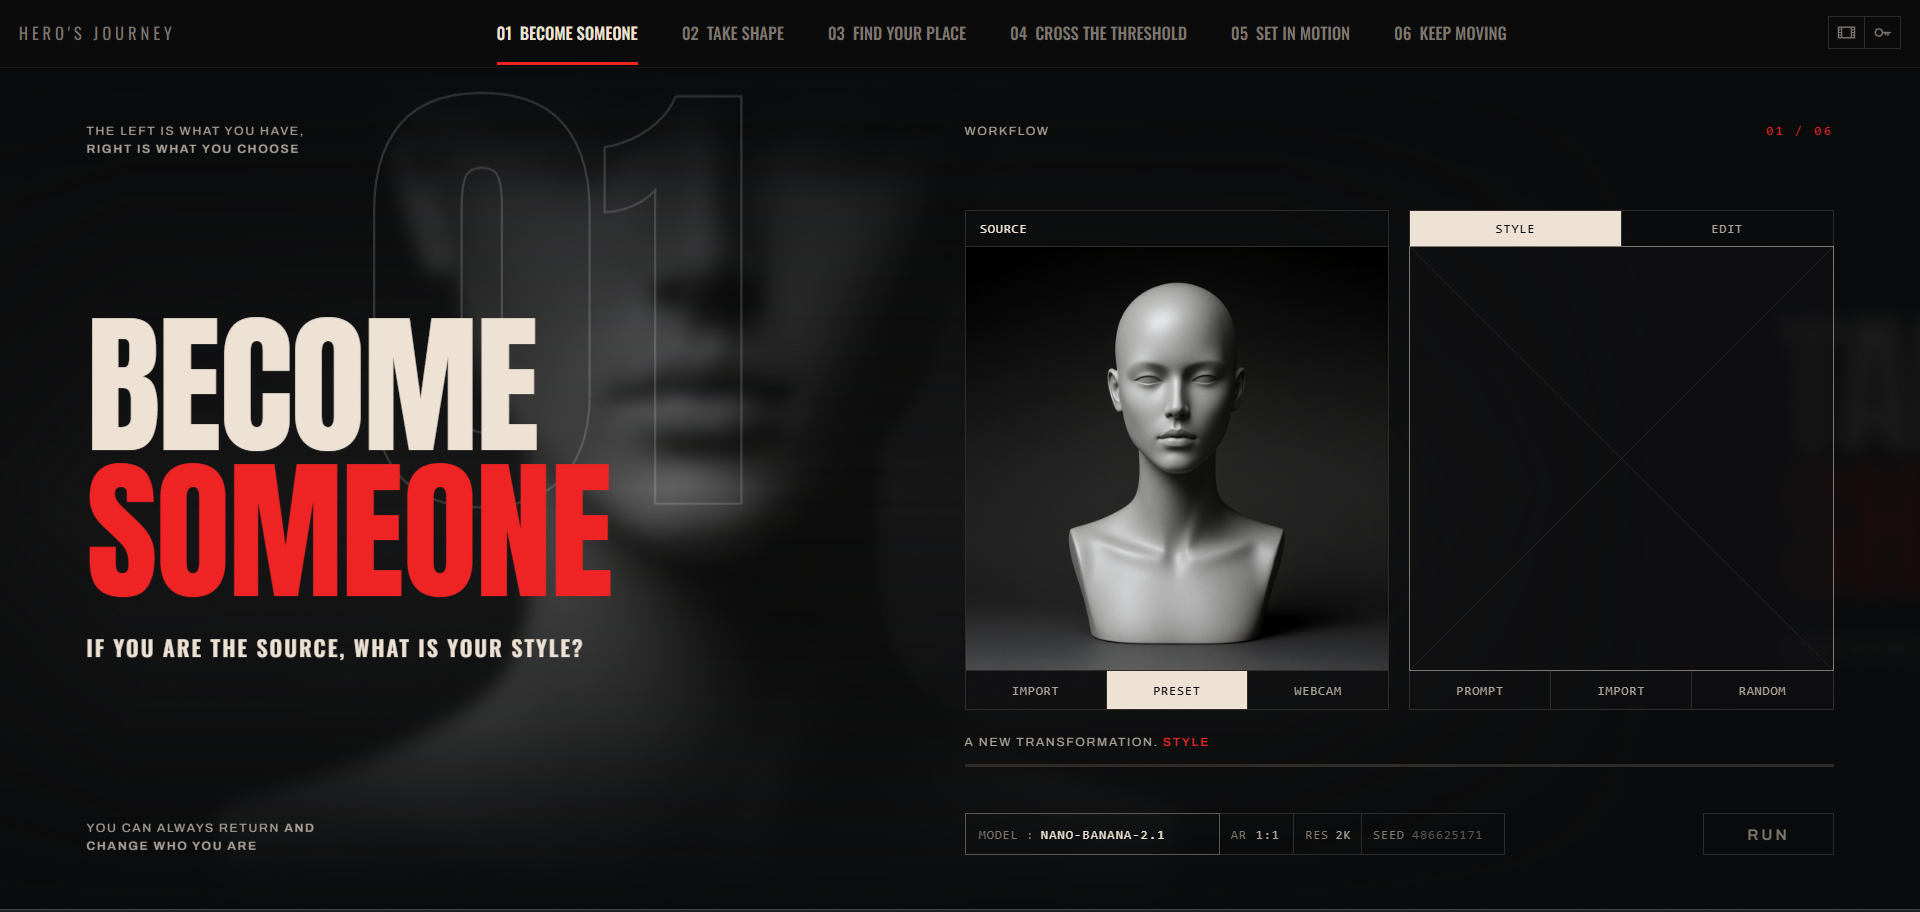
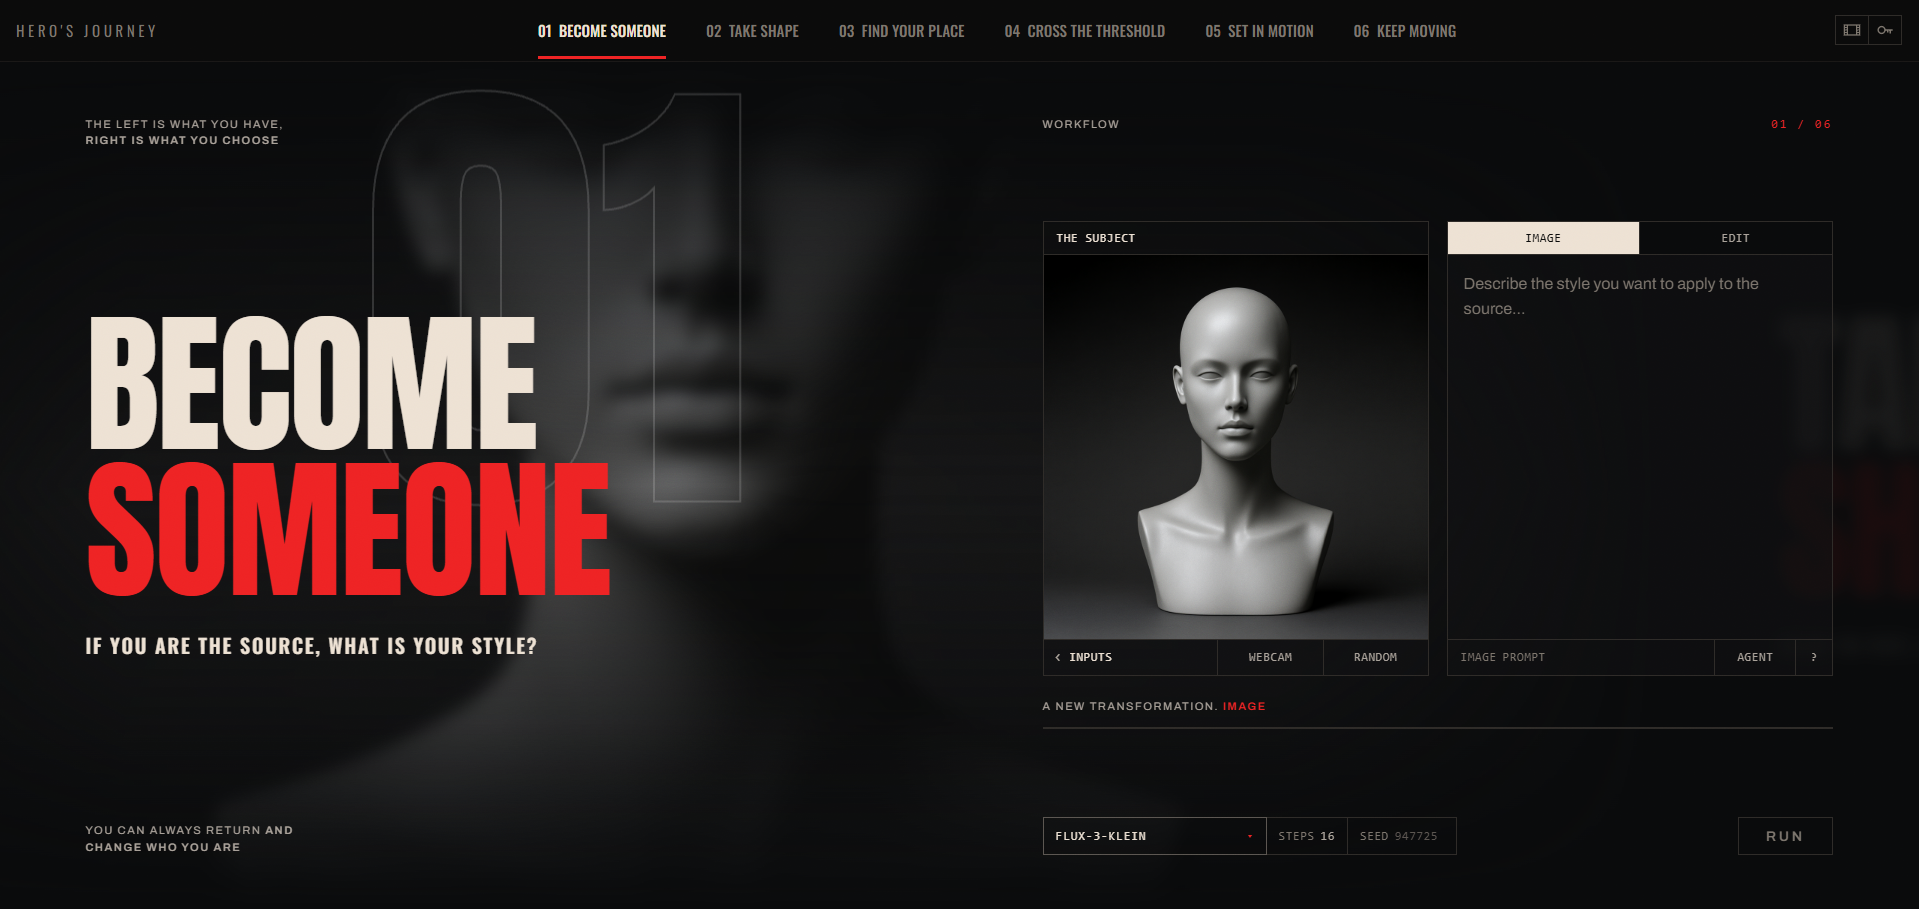
A fresh screenshot of Become someone, on an open row
The model row now reads FLUX 3 Klein, STEPS, SEED - no aspect ratio or size
cell, because Klein sizes its latent from the reference and the row only
shows what the chosen model takes.

diff --git a/README.md b/README.md
@@ -4,7 +4,7 @@ Built for the [**Open Source Higgsfield Competition**](https://comfy.org/open-so
 [spiritform](https://github.com/spiritform). It runs locally with an API key on
 [Comfy Cloud](https://platform.comfy.org).
 
-![Workflow 01 on a cold start: the preset bust in the source slot, the style slot empty, nano-banana-2.1 on the model row](docs/01-become-someone.png)
+![Workflow 01: the preset bust in the source slot, the prompt empty, FLUX 3 Klein on the model row](docs/01-become-someone.png)
 
 **[Watch the demo video](https://www.youtube.com/watch?v=cau_e-NcMqo)**
 
